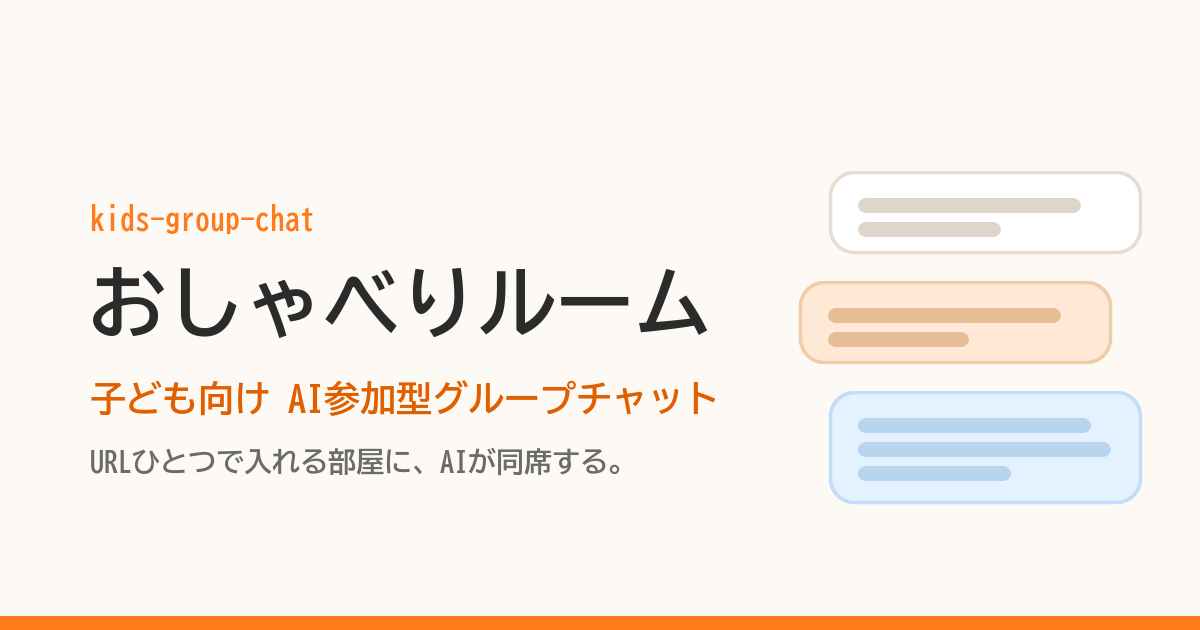
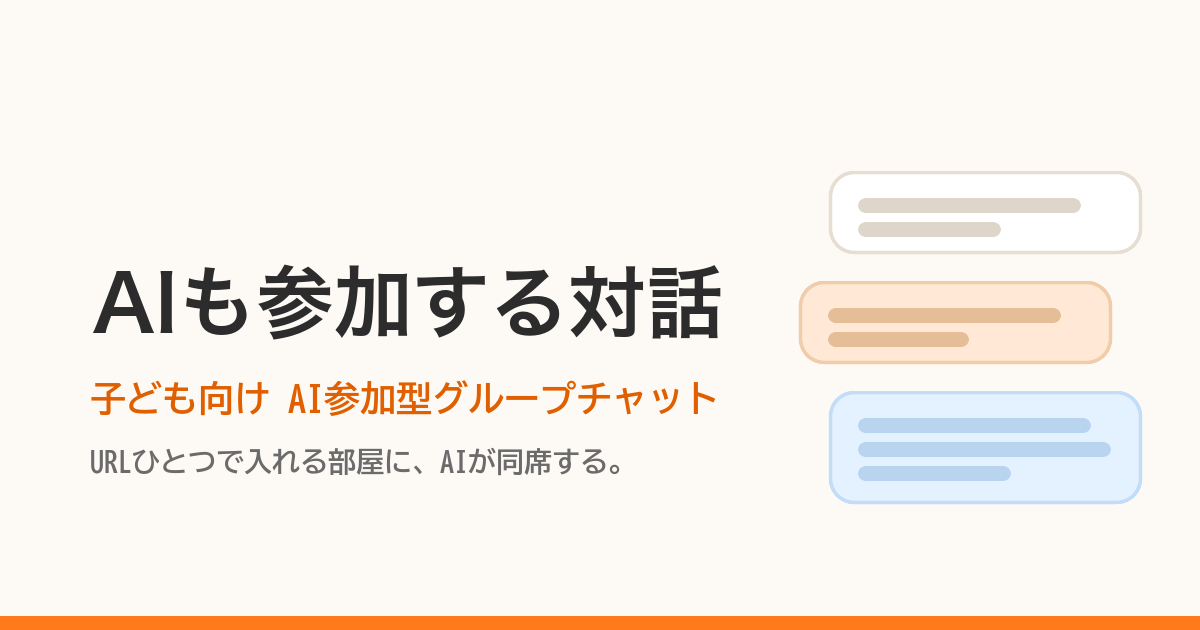
タイトル変更

Changed region(s): [[0.0617, 0.4222, 0.6167, 0.5429], [0.0617, 0.3317, 0.2775, 0.3921]]

diff --git a/web/index.html b/web/index.html
@@ -5,7 +5,7 @@
     <meta name="viewport" content="width=device-width, initial-scale=1.0, interactive-widget=resizes-content" />
     <meta name="robots" content="noindex, nofollow" />
     <meta name="referrer" content="no-referrer" />
-    <title>おしゃべりルーム</title>
+    <title>AIも参加する対話</title>
     <meta name="description" content="子ども向け AI参加型グループチャット。URLひとつで入れる部屋に、AIが同席する。" />
 
     <link rel="icon" type="image/png" sizes="32x32" href="/assets/favicon.png" />
@@ -14,13 +14,13 @@
     <!-- SNSに貼られたときのプレビュー。画像のURLは絶対パスでないと出ないので、
          ビルド時に SITE_URL を差し込む (vite.config.ts)。未設定なら相対パスのまま残る -->
     <meta property="og:type" content="website" />
-    <meta property="og:site_name" content="おしゃべりルーム" />
-    <meta property="og:title" content="おしゃべりルーム" />
+    <meta property="og:site_name" content="AIも参加する対話" />
+    <meta property="og:title" content="AIも参加する対話" />
     <meta property="og:description" content="子ども向け AI参加型グループチャット。URLひとつで入れる部屋に、AIが同席する。" />
     <meta property="og:image" content="%SITE_URL%/assets/ogp.png" />
     <meta property="og:image:width" content="1200" />
     <meta property="og:image:height" content="630" />
-    <meta property="og:image:alt" content="おしゃべりルーム - 子ども向け AI参加型グループチャット" />
+    <meta property="og:image:alt" content="AIも参加する対話 - 子ども向け AI参加型グループチャット" />
     <meta property="og:locale" content="ja_JP" />
     <meta name="twitter:card" content="summary_large_image" />
   </head>

diff --git a/web/src/features/help/HelpPage.tsx b/web/src/features/help/HelpPage.tsx
@@ -8,7 +8,7 @@ export function HelpPage() {
   return (
     <main className="centered-page help-page">
       <h1 className="help-title">つかいかた</h1>
-      <p>おしゃべりルームは、みんなで はなす へやだよ。AIも いっしょに いるよ。</p>
+      <p>ここは、みんなで はなす へやだよ。AIも いっしょに いるよ。</p>
 
       <section className="help-section">
         <h2 className="help-heading">1. へやに はいる</h2>
